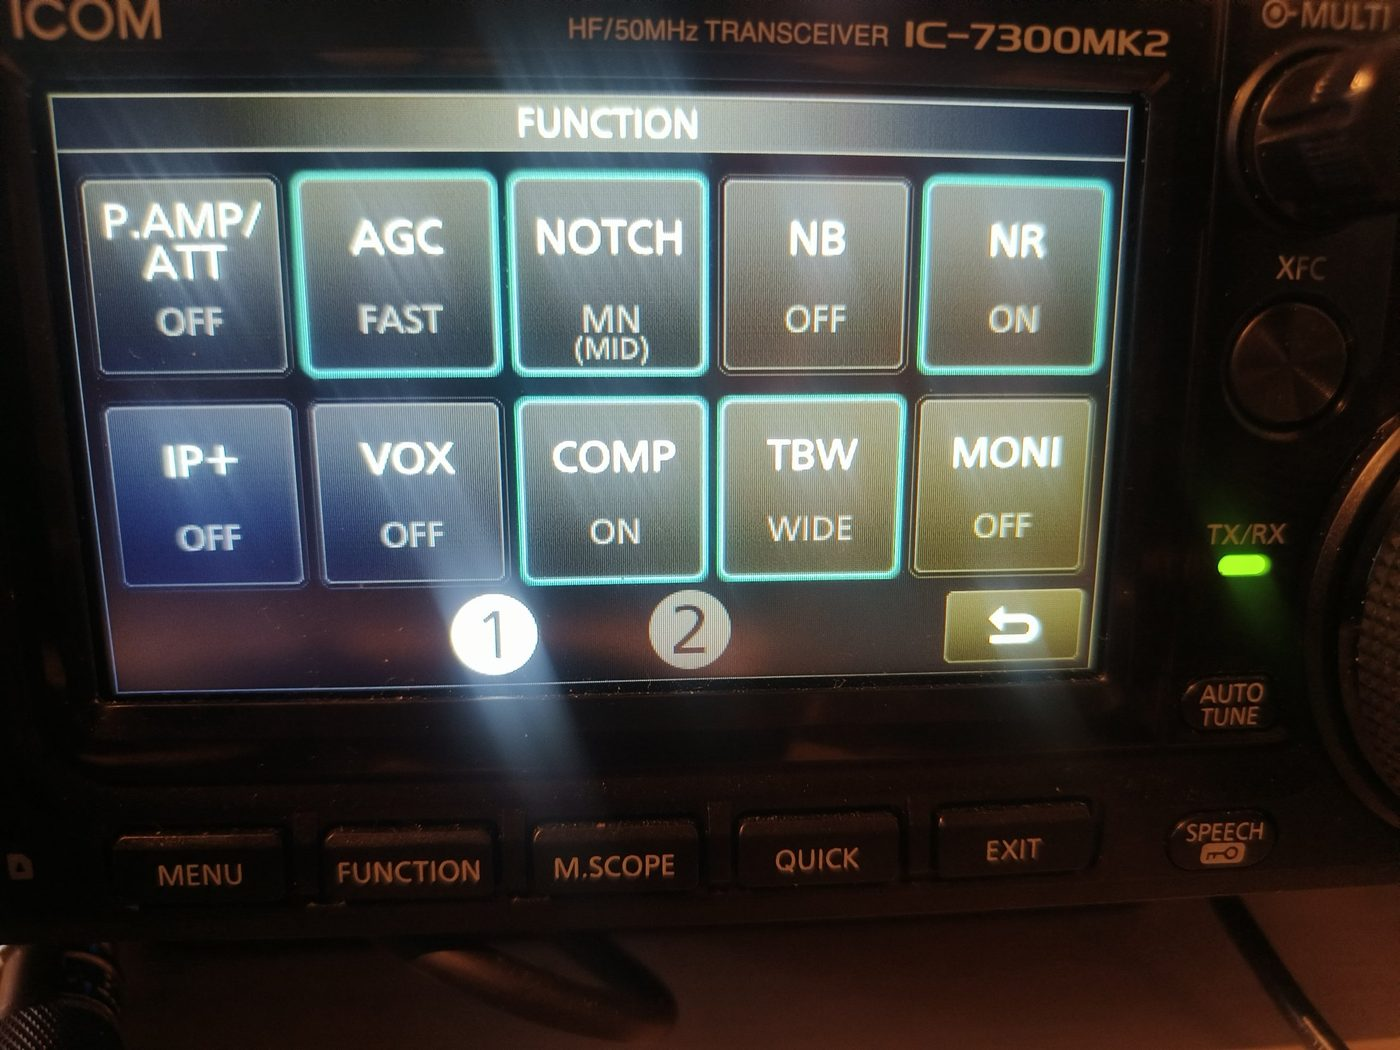
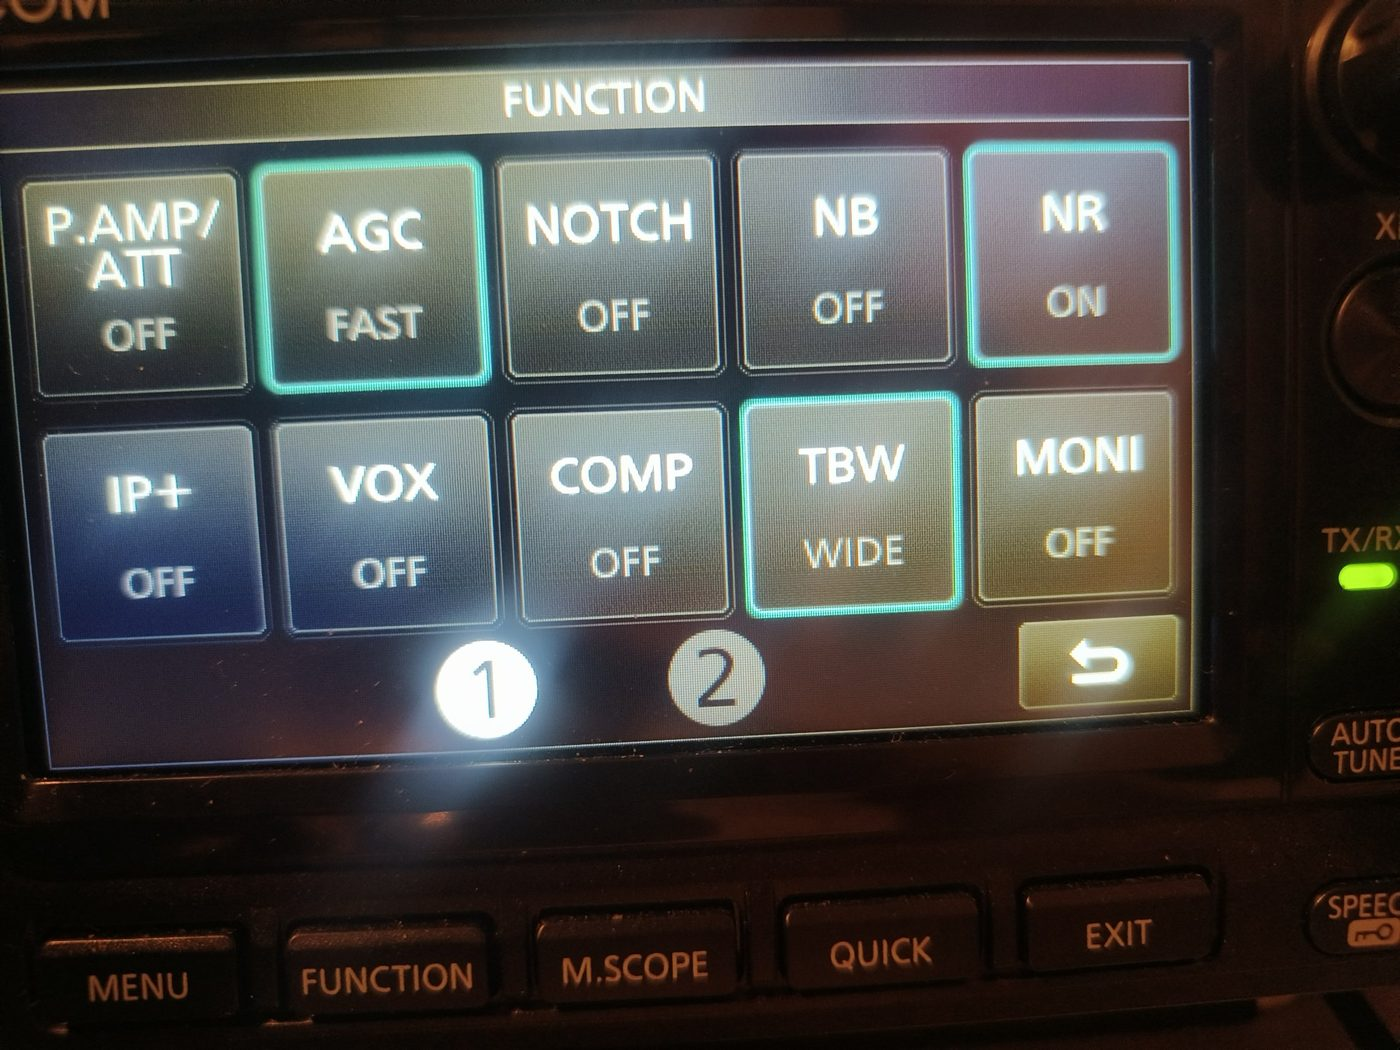
IC-7300 MkII post: add key-by-key explanation, fix AGC/compressor wording, sharper FUNCTION photo
Revert: git revert this commit.

diff --git a/_posts/2026-11-02-ic-7300-mk2-settings-for-every-situation.md b/_posts/2026-11-02-ic-7300-mk2-settings-for-every-situation.md
@@ -42,8 +42,76 @@ The MkII also has dedicated keys for the most used receive functions: **NB**, **
 
 <figure>
 <img src="/assets/images/ic7300-settings/function-screen.jpg" alt="IC-7300 MkII FUNCTION screen with P.AMP/ATT off, AGC FAST, NOTCH MN, NB off, NR on, IP+ off, VOX off, COMP on, TBW WIDE and MONI off" loading="lazy">
-<figcaption>The FUNCTION screen, photographed while I was writing this. Since then I have changed two things: AGC is now on MID and the notch is off by default (see below).</figcaption>
+<figcaption>The FUNCTION screen, page 1, photographed on 2 November: notch off, NB off, NR on, compressor off for now, TBW on WIDE. AGC still reads FAST here; I am moving it to MID (see situation 7).</figcaption>
 </figure>
+
+## What every key on these screens does
+
+If you have just unpacked the radio, the FUNCTION screen and the Multi-function menu are full of abbreviations. Here is every key from my photos in plain language. Where I write "hold", I mean a touch of one second.
+
+### FUNCTION screen, page 1
+
+<div class="ix-table" markdown="1">
+
+| Key | What it does | When I use it |
+|---|---|---|
+| **P.AMP/ATT** | Receive preamp (P.AMP1 about 12 dB, P.AMP2 about 20 dB) or attenuator (hold) | Preamp for weak signals on quiet bands, attenuator when a very strong signal distorts everything |
+| **AGC** | Automatic gain control: keeps the audio volume steady while signals fade and peak. FAST, MID or SLOW; hold to set the time constant | MID for calm SSB listening, FAST when a weak station disappears after a strong one |
+| **NOTCH** | Cuts out a whistle or carrier: OFF, AN (automatic) or MN (manual) | Only when there is a tone to remove |
+| **NB** | Noise blanker, for short clicks and pulses; hold for LEVEL, DEPTH, WIDTH | Only when pulse noise is present |
+| **NR** | Noise reduction, for steady hiss; hold for the level (0 to 15) | On as standard, at a moderate level |
+| **IP+** | Improves the receiver against intermodulation from strong signals, at a very small cost in sensitivity | On a crowded band or next to a strong station |
+| **VOX** | Voice-operated transmit: the radio transmits when you speak, without PTT; hold for gain, anti-VOX and delay | I leave it off. If you use it, switch MONI off, otherwise your audio echoes |
+| **COMP** | Speech compressor (SSB only); hold to set the level | DX and poor conditions, see situation 2 |
+| **TBW** | Transmit bandwidth in SSB: WIDE (100 to 2900 Hz), MID (300 to 2700 Hz) or NAR (500 to 2500 Hz) | WIDE as standard, narrower for DX |
+| **MONI** | Monitor: you hear your own transmit audio; hold for the level | When I adjust mic gain, compressor or equalizer |
+
+</div>
+
+A key with a coloured outline is active. The word underneath is its state or value: in my photo AGC shows FAST, NOTCH shows OFF and NR shows ON.
+
+### FUNCTION screen, page 2
+
+Touch the **[2]** at the bottom of the screen. According to the manual, page 2 holds keys such as these:
+
+<div class="ix-table" markdown="1">
+
+| Key | What it does | Do I need it? |
+|---|---|---|
+| **RX-ANT** | Routes a separate receive antenna through the RX-ANT connectors on the back | Only if you connect a dedicated receive antenna |
+| **APF** | Audio peak filter: sharpens the audio around the CW pitch | CW only |
+| **1/4** | Slows the tuning to a quarter of the normal speed for fine tuning | Only in the data and CW modes |
+| **TONE** | Tone settings for FM (repeater tone, tone squelch) | FM only, not relevant for SSB |
+
+</div>
+
+I have not photographed page 2 yet, so the exact layout on my radio may differ from this list, which comes from the Icom manual.
+
+### The Multi-function menu
+
+Push the **MULTI** knob and this column appears on the right. Touch an item and turn the knob. For COMP and MONITOR, touching the edge of the item switches the function on or off, while the knob changes the level.
+
+<div class="ix-table" markdown="1">
+
+| Item | What it sets | Notes |
+|---|---|---|
+| **RF POWER** | Transmit power from 0 to 100 % in steps of 1 % | On this 100 W radio, 20 % is roughly 20 W. As a Class C amateur, I keep HF at or below 25 W |
+| **MIC GAIN** | How hard the microphone drives the transmitter | Set it so the ALC meter swings between 30 and 50 % of the ALC zone |
+| **COMP** | Speech compressor on or off (left), level (right) | In my photo: off, level 2 |
+| **MONITOR** | Monitor on or off (left), volume of your own audio (right) | In my photo: off, 50 % |
+
+</div>
+
+### Reading the main screen
+
+A few indicators on the main screen that are easy to miss:
+
+- **RFG** (orange, under TX): the RF gain is turned down.
+- **OVF**: a signal is so strong that the receiver overloads. Reduce RF gain, switch on IP+ or the attenuator.
+- **SPLIT** (orange): split operation is on, see situation 8.
+- **RIT** with a number: receive offset, which shifts only the receive frequency.
+- **Small icons** for NR, NB, notch, AGC, preamp and compressor show which functions are on.
+- **S/Po meter** (the bar under the call): signal strength on receive, output power on transmit. Touch it to switch to SWR, ALC, COMP, Vd or Id.
 
 ## My everyday starting point
 
@@ -54,7 +122,7 @@ This is how my radio is set when I sit down for an SSB session on 40 m. Everythi
 | Function | My setting | Factory default |
 |---|---|---|
 | Receive filter | FIL2, 2.4 kHz, SHARP | FIL2 is 2.4 kHz |
-| AGC | MID | FAST (0.3 s) in SSB, MID is 2.0 s |
+| AGC | FAST in my photo, moving to MID | FAST (0.3 s) in SSB, MID is 2.0 s |
 | Noise reduction (NR) | on, level 5 | off |
 | Noise blanker (NB) | off, switched on when needed | off |
 | Notch | off | off |
@@ -62,7 +130,7 @@ This is how my radio is set when I sit down for an SSB session on 40 m. Everythi
 | IP+ | off | off |
 | RF power | 20 % (about 20 W) | 100 % |
 | Mic gain | 43 % | |
-| Speech compressor | on, level 2, still experimenting | off |
+| Speech compressor | off for now, level 2 prepared | off |
 | Transmit bandwidth (TBW) | WIDE (100 to 2900 Hz) | WIDE |
 | Monitor | off | off |
 
@@ -257,7 +325,7 @@ This is where the filters come in, and they are the part of the radio I enjoy mo
 3. A simple test: switch the preamp on. If the noise rises as much as the signal, it does not help. Switch it off.
 </div>
 
-**AGC.** While we talk about weak signals: I changed my AGC from FAST to MID. AGC keeps the audio volume steady while signals go up and down. In SSB, FAST reacts in 0.3 s and MID in 2.0 s. With MID the gain does not "pump" between the syllables of a voice, which I find calmer to listen to. The manual notes one exception: when a strong signal briefly appears next to a weak one, the AGC can turn the gain down and the weak station disappears for a moment. Then FAST helps. Switching is easy: push **FUNCTION** and touch **[AGC]** to step through FAST, MID and SLOW. The radio remembers the AGC per mode.
+**AGC.** While we talk about weak signals: I am moving my AGC from FAST to MID. AGC keeps the audio volume steady while signals go up and down. In SSB, FAST reacts in 0.3 s and MID in 2.0 s. With MID the gain does not "pump" between the syllables of a voice, which I find calmer to listen to. The manual notes one exception: when a strong signal briefly appears next to a weak one, the AGC can turn the gain down and the weak station disappears for a moment. Then FAST helps. Switching is easy: push **FUNCTION** and touch **[AGC]** to step through FAST, MID and SLOW. The radio remembers the AGC per mode.
 
 ## Situation 8: a DX pile-up: split and XFC
 
@@ -376,7 +444,7 @@ What I watch for:
 
 ## Still learning
 
-Writing this down was useful in itself. I discovered that two of my "standard" settings, AGC on FAST and a manual notch that was always on, were habits and not choices. Both are now changed. The compressor is my current experiment, and I will report back once I know where my voice lands on the COMP meter and what other stations say about it.
+Writing this down was useful in itself. I discovered that two of my "standard" settings, AGC on FAST and a manual notch that was always on, were habits and not choices. The notch is now off by default and AGC is moving to MID. The compressor is my current experiment, and I will report back once I know where my voice lands on the COMP meter and what other stations say about it.
 
 If you have your own favourite IC-7300 combinations, especially for noisy city locations, I would love to hear them on the air or via the [contact page](/contact/). 73 de ON3VZ.
 
